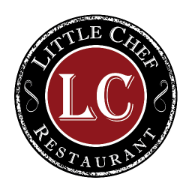
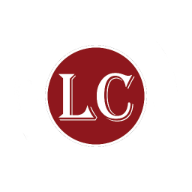
updates to navbar and hero section

diff --git a/_includes/nav.html b/_includes/nav.html
@@ -1,39 +1,40 @@
 <nav class="navbar navbar-expand-md navbar-light bg-light sticky-top border-bottom" data-bs-theme="light">
   <div class="container">
-    <button class="navbar-toggler" type="button" data-bs-toggle="offcanvas" data-bs-target="#offcanvas"
-      aria-controls="#offcanvas" aria-label="Toggle navigation">
-      <span class="navbar-toggler-icon"></span>
-    </button>
-    <div class="offcanvas offcanvas-end" tabindex="-1" id="#offcanvas" aria-labelledby="#offcanvasLabel">
-      <div class="offcanvas-body p-4 pt-0 p-lg-0">
-        <ul class="navbar-nav flex-row flex-wrap me-md-auto">
+    <div class="container-fluid">
+      <button class="navbar-toggler" type="button" data-bs-toggle="collapse" data-bs-target="#navbarsExample11"
+        aria-controls="navbarsExample11" aria-expanded="false" aria-label="Toggle navigation">
+        <span class="navbar-toggler-icon"></span>
+      </button>
+      <div class="collapse navbar-collapse d-lg-flex">
+        <a class="navbar-brand col-3 me-0" href="#">
+          <img src="{{ site.baseurl }}/assets/img/logo_circle.png" alt="Logo" width="32" height="32"
+            class="d-inline-block align-text-top">
+          <span class="d-none d-md-inline">Little Chef Restaurant</span>
+        </a>
+        <ul class="navbar-nav col-6 justify-content-lg-center">
+          <li class="nav-item"><a class="nav-link" aria-current="page" href="#">About</a></li>
+          <li class="nav-item"><a class="nav-link" aria-current="page" href="#">Menu</a></li>
+          <li class="nav-item"><a class="nav-link" aria-current="page" href="#">Location</a></li>
+        </ul>
+        <ul class="navbar-nav col-3 justify-content-lg-end">
           <li class="nav-item">
-            <a class="nav-link py-2 px-0 px-lg-2"
+            <a class="nav-link"
               href="https://www.facebook.com/Little-Chef-160076680862357/?rf=109246645805647">
               <i class="bi bi-facebook"></i>
             </a>
           </li>
           <li>
-            <a class="nav-link py-2 px-0 px-lg-2" href="https://www.yelp.com/biz/little-chef-coatesville">
+            <a class="nav-link" href="https://www.yelp.com/biz/little-chef-coatesville">
               <i class="bi bi-yelp"></i>
             </a>
           </li>
-        </ul>
-        <ul class="navbar-nav flex-row flex-wrap me-md-auto ms-md-auto">
-          <li class="nav-item"><a class="nav-link" href="#">About</a></li>
-          <li class="nav-item"><a class="nav-link" href="#">Menu</a></li>
-          <li class="nav-item"><a class="nav-link" href="#">Location</a></li>
-        </ul>
-        <ul class="navbar-nav flex-row flex-wrap ms-md-auto">
           <li class="nav-item">
-            <a class="nav-link py-2 px-0 px-lg-2"
-              href="https://goo.gl/maps/79WqFn2AeFe1pQdy9">
+            <a class="nav-link" href="https://goo.gl/maps/79WqFn2AeFe1pQdy9">
               <i class="bi bi-geo-alt-fill text-danger"></i>
             </a>
           </li>
           <li class="nav-item">
-            <a class="nav-link py-2 px-0 px-lg-2"
-              href="tel:+16103843221">
+            <a class="nav-link" href="tel:+16103843221">
               <i class="bi bi-telephone-fill text-danger"></i>
             </a>
           </li>

diff --git a/index.html b/index.html
@@ -1,29 +1,36 @@
 ---
 layout: default
 ---
-<div id="hero-section" class="text-center border-bottom">
-    <div class="container px-5 py-5">
-        <img src="{{ site.baseurl }}/assets/img/logo_circle.webp" alt="Hero Banner" style="border: none;" width="256"
-            height="256" loading="lazy">
-    </div>
-    <div class="col-lg-10 mx-auto">
-        <h1 class="display-4 fs-2">Little Chef Diner: Where Quality Meets Heart</h1>
-        <p class="lead mb-4">With strength, honesty, and pride, we pledge to keep doing our best, just as we always
-            have.<br>Join us at Little Chef, where every meal is an experience filled with quality,
-            tradition, and heart.</p>
-        <div class="d-grid gap-2 d-sm-flex justify-content-sm-center mb-5">
-            <button type="button" class="btn btn-danger btn-lg px-4 me-sm-3"><i class="bi bi-geo-alt-fill"></i> visit
-                us</button>
-            <button type="button" class="btn btn-outline-danger btn-lg px-4"> <i class="bi bi-telephone-fill"></i> call
-                us
-            </button>
+<div id="hero-section" class="text-center">
+    <div class="container text-center">
+        <div class="row row-cols-2 mt-1 g-5 align-items-center">
+            <div class="col">
+                <div class="card border border-0">
+                    <div class="card-body">
+                        <h1 class="card-title display-5">Little Chef Restaurant: Where Quality Meets Heart</h1>
+                        <p class="card-text fs-5">With strength, honesty, and pride, we pledge to keep doing our best,
+                            just as we
+                            always
+                            have.<br>Join us at Little Chef, where every meal is an experience filled with quality,
+                            tradition, and heart.</p>
+                        <a href="#" class="btn btn-danger btn-lg px-4 me-sm-3"><i class="bi bi-geo-alt-fill"></i>
+                            visit
+                            us</a>
+                        <a href="#" class="btn btn-outline-danger btn-lg px-4"><i class="bi bi-telephone-fill"></i> call
+                            us</a>
+                    </div>
+                </div>
+            </div>
+            <div class="col">
+                <div class="container">
+                    <img src="{{ site.baseurl }}/assets/img/banner8.png" class="img-fluid border rounded-3 shadow-lg"
+                        alt="Hero Banner" loading="lazy">
+                </div>
+            </div>
         </div>
     </div>
 </div>
 
-<div id="hero-section" class="text-center border-bottom">
-    <div class="container px-5 py-5">
-        <img src="{{ site.baseurl }}/assets/img/banner8.png" class="img-fluid border rounded-3 shadow" alt="Hero Banner"
-            width="700" height="500" loading="lazy">
-    </div>
+<div id="hero-section" class="text-center">
+
 </div>

diff --git a/_sass/base.scss b/_sass/base.scss
@@ -1,8 +1,3 @@
-.container {
-  max-width: 960px;
-}
-
-
 body {
   font-family: 'Noto Sans', serif;
 }
